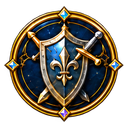
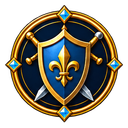
[Codex] fix: 簡化功能圖示細節並接入遊戲

diff --git a/index.html b/index.html
@@ -83,16 +83,16 @@
           <span id="rail-level" class="rail-level">Lv.1</span>
           <span class="rail-xp"><span id="rail-xp-fill"></span></span>
         </div>
-        <button class="tab-btn" data-tab="char"><span class="af-nav-icon" aria-hidden="true"><img src="images/ui/enamel-nav/char.png?v=20261014" alt="" width="128" height="128" draggable="false"></span>角色</button>
-        <button class="tab-btn active" data-tab="equip"><span class="af-nav-icon" aria-hidden="true"><img src="images/ui/enamel-nav/equip.png?v=20261014" alt="" width="128" height="128" draggable="false"></span>裝備</button>
-        <button class="tab-btn" data-tab="skills"><span class="af-nav-icon" aria-hidden="true"><img src="images/ui/enamel-nav/skills.png?v=20261014" alt="" width="128" height="128" draggable="false"></span>技能</button>
-        <button class="tab-btn" data-tab="newforge"><span class="af-nav-icon" aria-hidden="true"><img src="images/ui/enamel-nav/newforge.png?v=20261014" alt="" width="128" height="128" draggable="false"></span>熔爐</button>
-        <button class="tab-btn" data-tab="gems"><span class="af-nav-icon" aria-hidden="true"><img src="images/ui/enamel-nav/gems.png?v=20261014" alt="" width="128" height="128" draggable="false"></span>寶石</button>
-        <button class="tab-btn" data-tab="runes"><span class="af-nav-icon" aria-hidden="true"><img src="images/ui/enamel-nav/runes.png?v=20261014" alt="" width="128" height="128" draggable="false"></span>符文</button>
-        <button class="tab-btn" data-tab="tower"><span class="af-nav-icon" aria-hidden="true"><img src="images/ui/enamel-nav/tower.png?v=20261014" alt="" width="128" height="128" draggable="false"></span>封魔塔</button>
-        <button class="tab-btn" data-tab="talents"><span class="af-nav-icon" aria-hidden="true"><img src="images/ui/enamel-nav/talents.png?v=20261014" alt="" width="128" height="128" draggable="false"></span>威能</button>
-        <button class="tab-btn" data-tab="forge" style="display:none"><span class="af-nav-icon" aria-hidden="true"><img src="images/ui/enamel-nav/forge.png?v=20261014" alt="" width="128" height="128" draggable="false"></span>神鑄<span id="forge-run-ind" class="forge-run-ind" style="display:none"></span></button>
-        <button class="tab-btn" data-tab="settings"><span class="af-nav-icon" aria-hidden="true"><img src="images/ui/enamel-nav/settings.png?v=20261014" alt="" width="128" height="128" draggable="false"></span>設定</button>
+        <button class="tab-btn" data-tab="char"><span class="af-nav-icon" aria-hidden="true"><img src="images/ui/enamel-nav/char.png?v=20261014-clean" alt="" width="128" height="128" draggable="false"></span>角色</button>
+        <button class="tab-btn active" data-tab="equip"><span class="af-nav-icon" aria-hidden="true"><img src="images/ui/enamel-nav/equip.png?v=20261014-clean" alt="" width="128" height="128" draggable="false"></span>裝備</button>
+        <button class="tab-btn" data-tab="skills"><span class="af-nav-icon" aria-hidden="true"><img src="images/ui/enamel-nav/skills.png?v=20261014-clean" alt="" width="128" height="128" draggable="false"></span>技能</button>
+        <button class="tab-btn" data-tab="newforge"><span class="af-nav-icon" aria-hidden="true"><img src="images/ui/enamel-nav/newforge.png?v=20261014-clean" alt="" width="128" height="128" draggable="false"></span>熔爐</button>
+        <button class="tab-btn" data-tab="gems"><span class="af-nav-icon" aria-hidden="true"><img src="images/ui/enamel-nav/gems.png?v=20261014-clean" alt="" width="128" height="128" draggable="false"></span>寶石</button>
+        <button class="tab-btn" data-tab="runes"><span class="af-nav-icon" aria-hidden="true"><img src="images/ui/enamel-nav/runes.png?v=20261014-clean" alt="" width="128" height="128" draggable="false"></span>符文</button>
+        <button class="tab-btn" data-tab="tower"><span class="af-nav-icon" aria-hidden="true"><img src="images/ui/enamel-nav/tower.png?v=20261014-clean" alt="" width="128" height="128" draggable="false"></span>封魔塔</button>
+        <button class="tab-btn" data-tab="talents"><span class="af-nav-icon" aria-hidden="true"><img src="images/ui/enamel-nav/talents.png?v=20261014-clean" alt="" width="128" height="128" draggable="false"></span>威能</button>
+        <button class="tab-btn" data-tab="forge" style="display:none"><span class="af-nav-icon" aria-hidden="true"><img src="images/ui/enamel-nav/forge.png?v=20261014-clean" alt="" width="128" height="128" draggable="false"></span>神鑄<span id="forge-run-ind" class="forge-run-ind" style="display:none"></span></button>
+        <button class="tab-btn" data-tab="settings"><span class="af-nav-icon" aria-hidden="true"><img src="images/ui/enamel-nav/settings.png?v=20261014-clean" alt="" width="128" height="128" draggable="false"></span>設定</button>
       </nav>
 
       <main>

diff --git a/docs/AI_TASKS.md b/docs/AI_TASKS.md
@@ -1,5 +1,18 @@
 # AI_TASKS.md
 
+## ENAMEL-NAV-CLEANUP-20261014 — 清理十個功能徽章的細碎裝飾
+
+- Owner：Codex；Done，單一開發者。使用者指出64×64小尺寸的雕飾／內圈細線／光點使圖示顯髒，要求全部圖案簡化，不只處理紅圈示例，隨後確認接入遊戲。前置為既有ENAMEL-NAV，後續交使用者審閱整合。
+- 允許：images/ui/enamel-nav十圖、index.html僅圖檔快取、tools/enamel-nav/export-source.cjs必要分格邊界修正、本紀錄；素材庫codex-authored/enamel-nav透明母圖／十個匯出／來源／提示詞及匯出紀錄。禁止改頁籤排列、尺寸、事件、解鎖、遊戲規則、Worker／存檔與其他副本；不合併／推送。預檢以上路徑（含補查匯出工具）無其他副本／分支衝突，兩庫原乾淨。
+- 驗收：所有徽章內圈平順簡潔、背景無光點／刻紋／碎裂細線，主體清楚簡化、保留對應語意與配色、寶石仍單顆；同時查看64×64與現行38px實際側欄，透明與SHA／匯出一致、頁面無破圖／Console錯誤、Build與diff check；先素材庫再遊戲Commit。沿用imagegen整理已核定原創素材，Mote像素編輯流程不適合整組高精細圖稿的重整；不程序重畫圖案。
+- 完成／修改13檔：images/ui/enamel-nav的char／equip／skills／newforge／gems／runes／tower／talents／forge／settings.png全部更新；index.html十圖快取20261014→20261014-clean；tools/enamel-nav/export-source.cjs及本紀錄。內圈統一連續金線與平滑深藍底，清除金色細髮線／光點／碎片；盔甲寬面、書本簡潔符號與單束紫焰、爐砧去鏈條、寶石少量寬切面、完整符文石、塔樓減少雕飾、威能四個主節點、神鑄錘去放射細刺、齒輪去小鉚釘。未改CSS／圖示顯示尺寸或按鈕規則。
+- 素材：沿已提交原創母圖由內建imagegen重整；保留原始核定概念圖，舊版母圖／匯出仍可由65318f4歷史恢復。素材庫SOURCE／PROMPTS-CLEANUP／母圖／十圖／exports.json同步，先提交bf1dd2c（[Codex] fix: 清理功能徽章內圈與細碎裝飾）。十圖128×128 RGBA、角落alpha0、每圖逾6千透明像素且逾9千近不透明像素；合計301780 bytes，十圖及紀錄SHA與遊戲一致。
+- 匯出修正：新版母圖的格心有數像素偏移，等分線原會切到金框尖端；工具改為在名目欄分界附近找透明縫，再裁透明留白。alpha<=16只用於定位邊界，保留兩像素邊緣，不改原像素／alpha、不畫遮罩或重畫美術。新版真母圖成功產十圖，額外隔離暫存素材庫重播舊版母圖也成功；完全不透明／沒有分格透明縫的錯誤輸入仍正確拒絕，未放寬為接受相連圖案。
+- 指令與結果：node tools/enamel-nav/export-source.cjs --make-icons／--apply／--check成功；node --check tools/enamel-nav/export-source.cjs通過；node --test tests/sidebar-layout.test.cjs tests/init-ui-smoke.test.cjs，3/3通過；npm.cmd run build，503檔全過；兩庫git diff --check通過。另HTML與HEAD逐位元比較，只改十圖快取；十PNG尺寸／alpha／SHA核對通過。未改測試斷言。
+- 瀏覽器：隔離localhost新來源的正式Worker／Pixi／UI，未讀真人存檔。十圖全載入128px新快取；角色與寶石切換正常、側欄無橫向溢出、神鑄仍依原解鎖保持隱藏，Console error／warning 0。對照頁30張圖片全部載入，舊版64px／新版64px與新版38px經DOM量測均為實際尺寸，目視主體更清晰、內圈與背景無細碎裝飾。比較圖與實際接線圖分別保存在本聊天visualizations/enamel-nav-clean-comparison.png及enamel-nav-clean-applied.png。驗證頁／伺服器已關閉，暫存腳本與測試副本清理。
+- 未改但檢查：AI規範、css/ashen-forge.css、素材庫來源及舊版母圖／圖示、tests/sidebar-layout.test.cjs／init-ui-smoke.test.cjs、共用vfx-library-root.cjs。沒有引入第三方素材或變更CSS／UI事件／模擬／配置／存檔。
+- 交付：遊戲Commit為本紀錄所在[Codex] fix提交；素材Commit bf1dd2c。無本次未完成項或已知新增風險，可供審查合併，未合併／推送。限制：未另跑全庫測試或真人存檔長時間驗收。下一步使用者整合後重載查看新版圖示。
+
 ## ENAMEL-NAV-20261014 — 套用寶石琺瑯功能頁籤
 
 - Owner：Codex；Done，單一開發者。使用者核定第三組金邊琺瑯徽章，寶石改為完整單顆藍綠寶石，並要求開始套用。前置為本聊天核定預覽，後續交使用者審閱整合。
